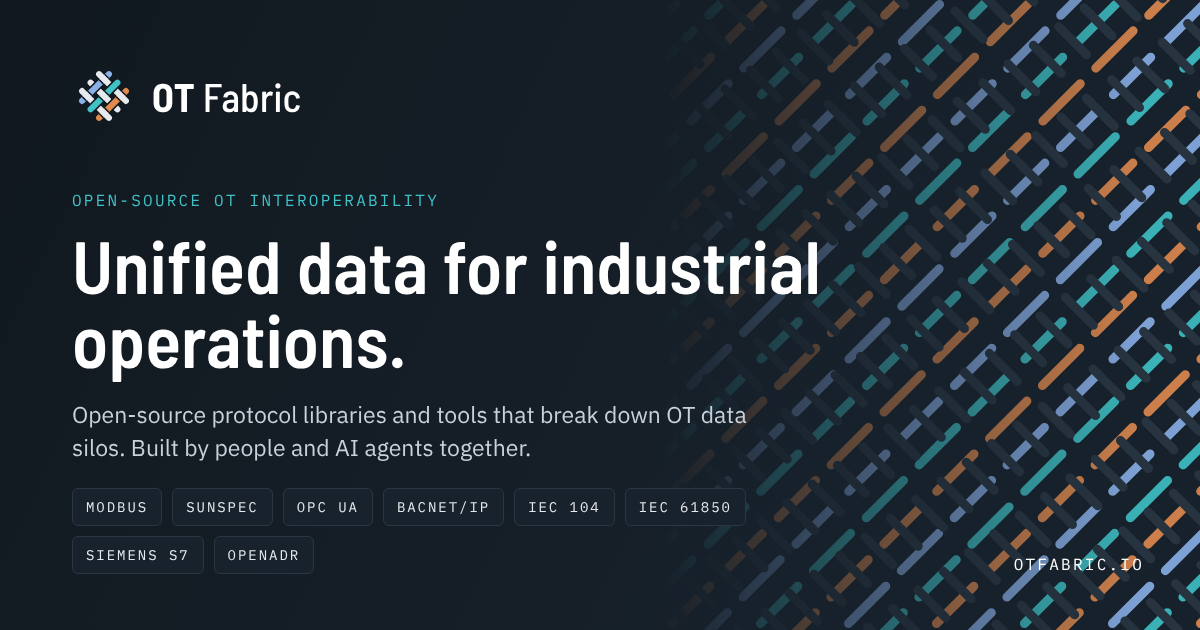
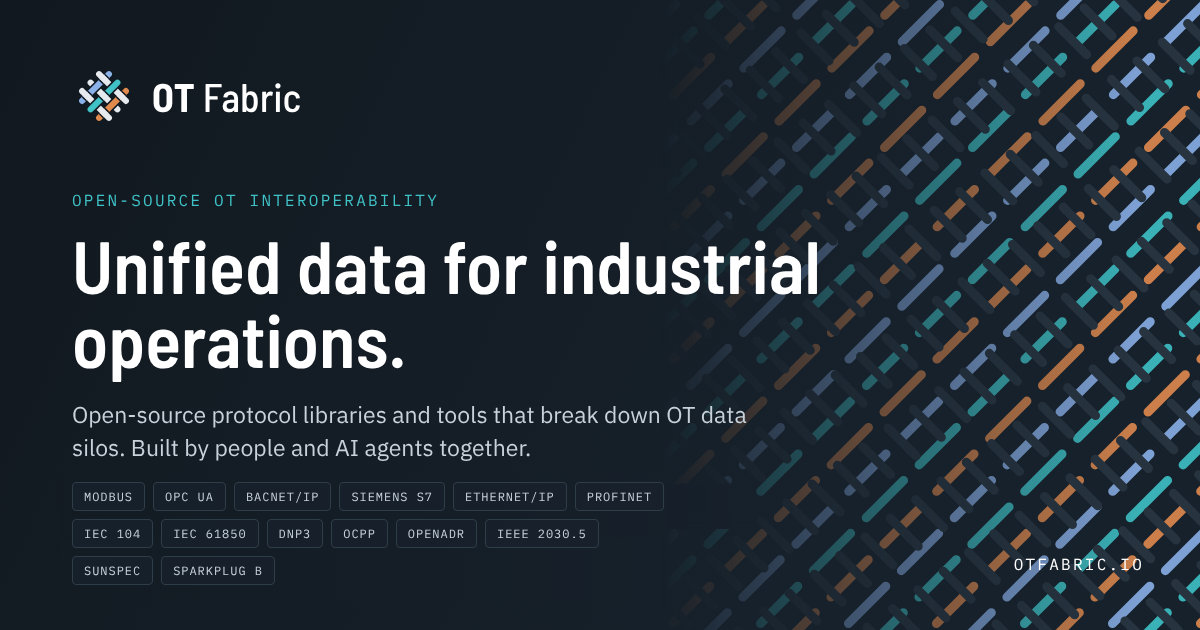
Refresh the share image and count only PROFINET stacks on the interop cover (#38)
* Add PROFINET: protocol page, docs, catalog, ecosystem map and launch post

go-profinet, profinetctl and profinet-interop v0.6.0. New teal PROFINET
icon, 18 PROFINET implementations on the ecosystem map (199 stacks, 12
protocols), a PI profile in the standards directory, refreshed link card
and interop suites cover (13 suites, 65 reference stacks).

Claude-Session: https://claude.ai/code/session_01RAyt1ZKn1yF26meyBxCLQe

* Refresh the share image and count only PROFINET stacks on the interop cover

The default share image lists all twelve protocols, the SunSpec model and
the Sparkplug B profile. The interop suites cover and post no longer count
the MRP ring nodes as PROFINET reference stacks (13 suites, 63 stacks).

Claude-Session: https://claude.ai/code/session_01RAyt1ZKn1yF26meyBxCLQe

---------

Changed region(s): [[0.0617, 0.754, 0.6167, 0.9349]]

diff --git a/src/data/seo.ts b/src/data/seo.ts
@@ -7,7 +7,7 @@ export const ogImage = {
 	src: '/og-image.png',
 	width: 1200,
 	height: 630,
-	alt: 'OT Fabric: unified data for industrial operations. Open-source protocol libraries and tools for Modbus, OPC UA, BACnet/IP, IEC 104, IEC 61850, Siemens S7, OpenADR, OCPP, DNP3, IEEE 2030.5, EtherNet/IP and PROFINET, and the SunSpec Modbus and IEC 61850 information models.',
+	alt: 'OT Fabric: unified data for industrial operations. Open-source protocol libraries and tools for Modbus, OPC UA, BACnet/IP, IEC 104, IEC 61850, Siemens S7, OpenADR, OCPP, DNP3, IEEE 2030.5, EtherNet/IP and PROFINET, the SunSpec Modbus and IEC 61850 information models, and the Sparkplug B profile.',
 };
 
 /** Meta description for the homepage: what OT Fabric is, with the protocols and models people search for. */

diff --git a/src/content/blog/why-every-protocol-gets-an-interop-suite.md b/src/content/blog/why-every-protocol-gets-an-interop-suite.md
@@ -1,12 +1,12 @@
 ---
 title: Why every protocol gets an interop suite
-description: Every OT Fabric protocol is tested against independent implementations. Thirteen interop suites package 65 reference stacks as containers behind one contract, test them against each other first, and record what they find in our code and in theirs.
+description: Every OT Fabric protocol is tested against independent implementations. Thirteen interop suites package 63 reference stacks as containers behind one contract, test them against each other first, and record what they find in our code and in theirs.
 date: 2026-10-12
 updated: 2026-10-29
 authors: [OT Fabric]
 tags: [testing, interop]
 cover:
-  alt: Thirteen OT Fabric interop suites and their 65 independent reference stacks. Modbus, OPC UA, BACnet/IP, Siemens S7, EtherNet/IP, PROFINET, Sparkplug B, IEC 104, IEC 61850, DNP3, OCPP, OpenADR and IEEE 2030.5, each with the open-source implementations its suite runs and their languages.
+  alt: Thirteen OT Fabric interop suites and their 63 independent reference stacks. Modbus, OPC UA, BACnet/IP, Siemens S7, EtherNet/IP, PROFINET, Sparkplug B, IEC 104, IEC 61850, DNP3, OCPP, OpenADR and IEEE 2030.5, each with the open-source implementations its suite runs and their languages.
   image: ../../assets/blog/interop-suites.png
 ---
 
@@ -14,7 +14,7 @@ A protocol library that only passes its own tests proves very little. Two implem
 
 So every OT Fabric protocol comes with an interoperability suite: independent, established stacks packaged as containers, with deterministic fixtures and a common contract. Our libraries and tools are tested against them in both directions before a release says it works.
 
-## Thirteen suites, 65 reference stacks
+## Thirteen suites, 63 reference stacks
 
 | Protocol | Suite | Reference implementations |
 |---|---|---|
@@ -29,7 +29,7 @@ So every OT Fabric protocol comes with an interoperability suite: independent, e
 | [OpenADR](/protocols/openadr/) | [openadr-interop](/projects/openadr-interop/) | OpenLEADR (Rust), ElaadNL openadr3-client (Python), plus a specification-driven conformance suite |
 | [IEEE 2030.5](/protocols/ieee-2030-5/) | [ieee20305-interop](/projects/ieee20305-interop/) | ANU Envoy (Python), GridAPPS-D (Go), DER Security py20305 (Python), EPRI client (C) |
 | [EtherNet/IP](/protocols/ethernet-ip/) | [ethernetip-interop](/projects/ethernetip-interop/) | OpENer (C), EIPScanner (C++), pycomm3 (Python), cpppo (Python), libplctag (C), gologix (Go), pylogix (Python), etherip (Java), eip-rs (Rust), node-ethernet-ip (TypeScript), EEIP.NET (C#), loki-os go-ethernet-ip (Go) |
-| [PROFINET](/protocols/profinet/) | [profinet-interop](/projects/profinet-interop/) | rt-labs p-net (C), pnio-rs (Rust), profinet-py (Python), pnio-dcp (Python), and the MRP ring nodes umrp (C) and microchip-ung/mrp (C), with Net-SNMP, Wireshark and scapy checking every capture |
+| [PROFINET](/protocols/profinet/) | [profinet-interop](/projects/profinet-interop/) | rt-labs p-net (C), pnio-rs (Rust), profinet-py (Python), pnio-dcp (Python); the MRP ring nodes umrp and microchip-ung/mrp, Net-SNMP, Wireshark and scapy are test tools, not counted as PROFINET stacks |
 | [Sparkplug B](/profiles/sparkplugb/) (profile over MQTT) | [sparkplugb-interop](/projects/sparkplugb-interop/) | Eclipse Tahu (Java), Eclipse Tahu sparkplug-client (JavaScript), pysparkplug (Python), SparkplugNet (C#), srad (Rust), sparkplughost (Go), on four MQTT brokers |
 
 SunSpec is the exception: it is a register model on top of Modbus, so go-sunspec is tested through its own server, offline decoding and a weekly comparison with the SunSpec Alliance's model definitions, and its Modbus layer is covered by modbus-interop.
